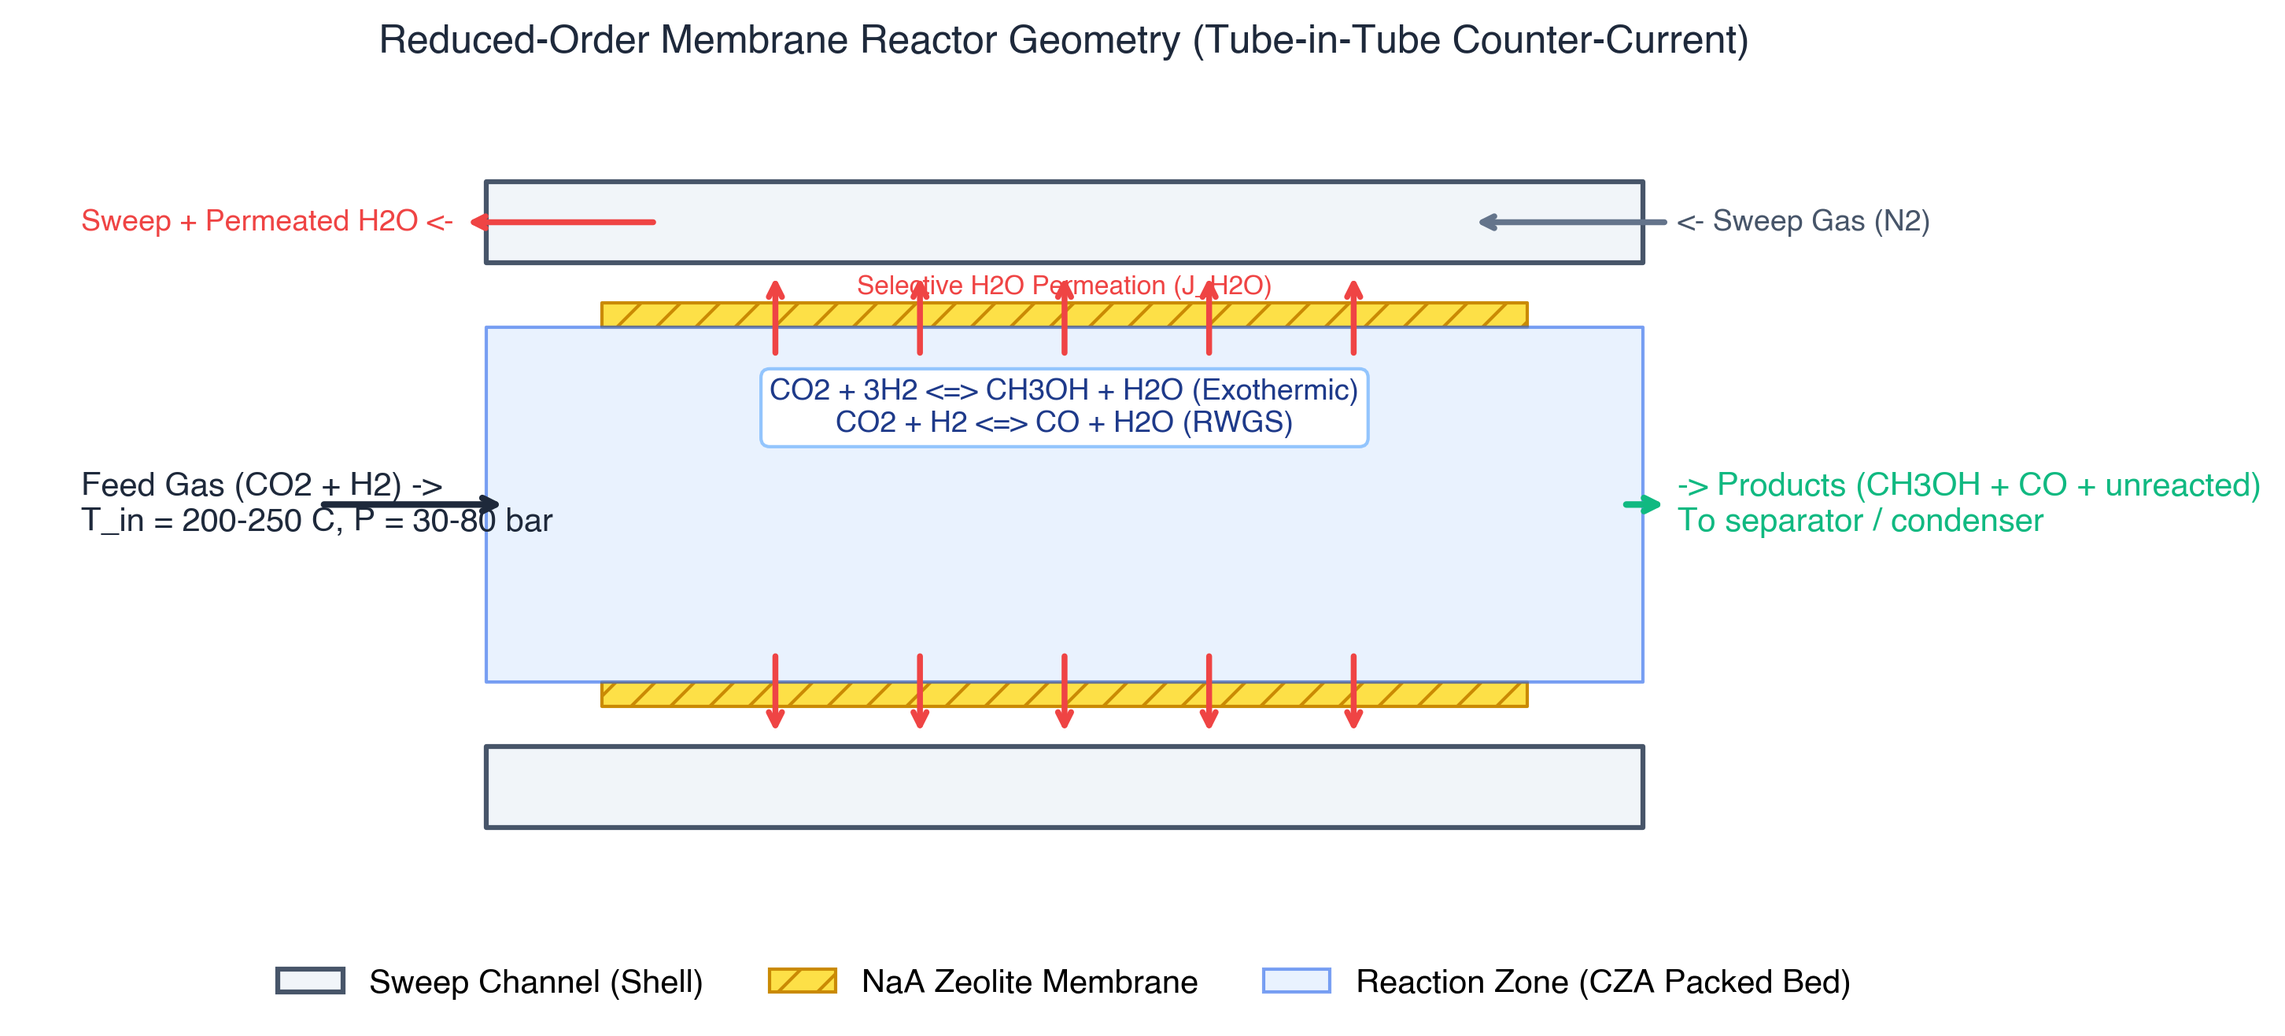
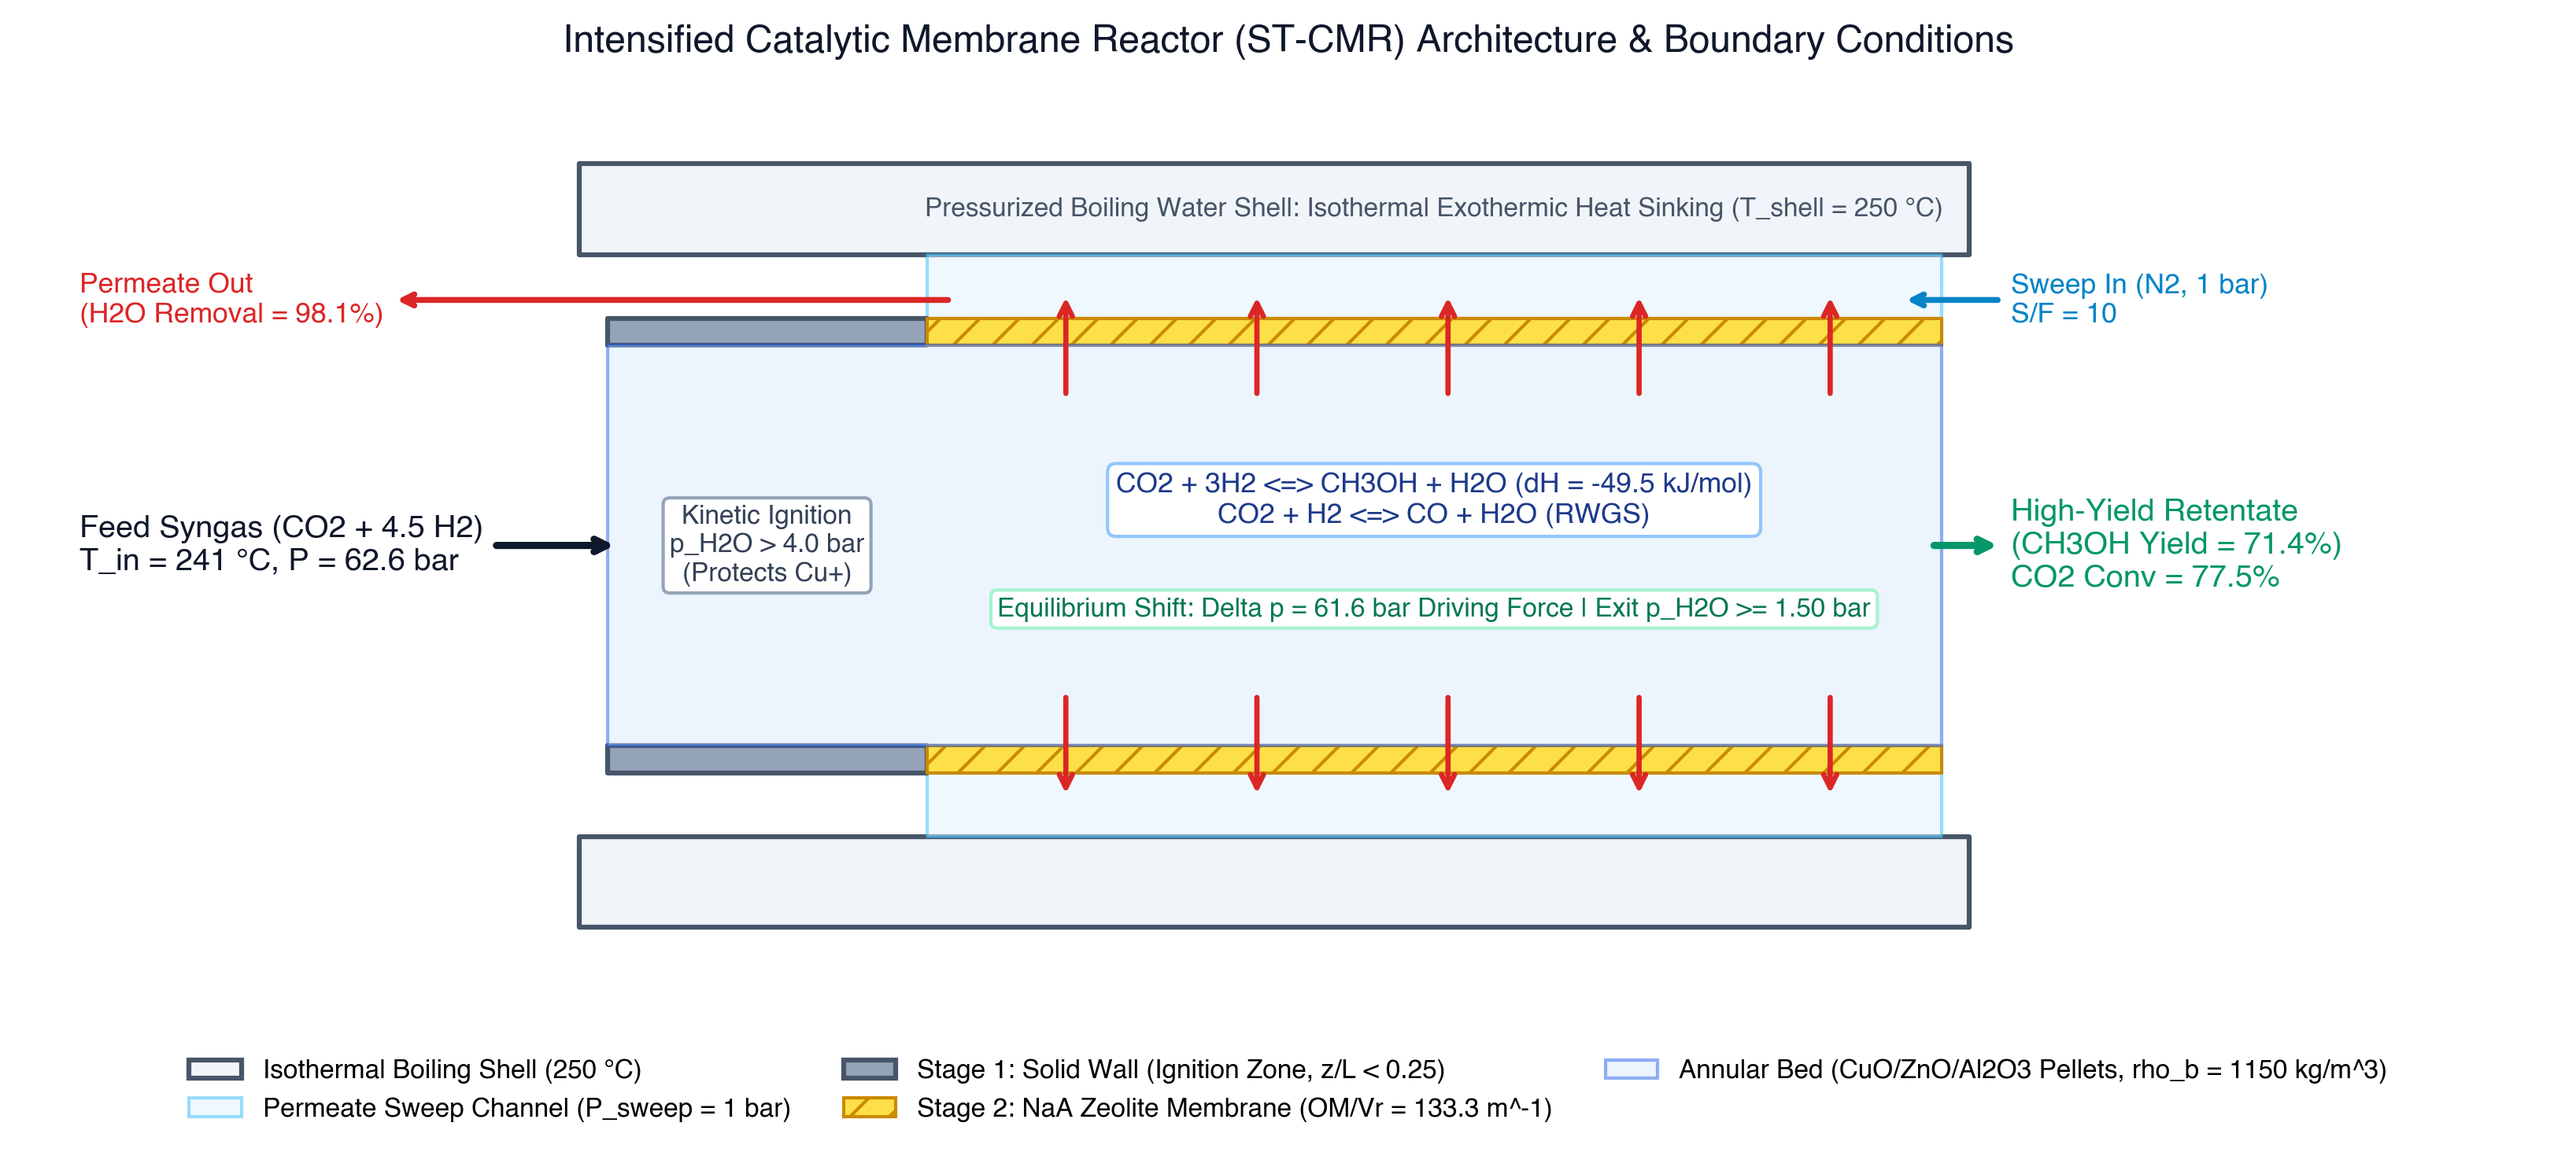
docs: deeply integrated ML analytical commentary into RESULTS.md and regenerated models

diff --git a/RESULTS.md b/RESULTS.md
@@ -1,16 +1,24 @@
-# Membrane Reactor Full Analytical Results
+# Comprehensive Analysis & Results
 
-This document presents the detailed execution results of the 1D steady-state co-current model across both reactor modules, followed by a comprehensive data-driven contour and surrogate model analysis.
+This document presents the detailed simulation and machine-learning results of the 1D steady-state co-current mathematical model across both reactor modules, synthesizing the fundamental physics with surrogate-driven optimizations.
 
-## 1. Module B (Ammonia Decomposition)
-**Architecture:** Catalyst packed inside the **lumen**, Pd membrane wrapper, H₂ permeating outward.
+---
 
-### Performance Data
+## 1. Module B: Ammonia Decomposition (Lumen Catalyst)
+As highlighted by Sitar et al. (2022) and P1, the decomposition of ammonia is highly endothermic and heavily limited by chemical equilibrium. The physical architecture leverages a **Pd membrane on a Ru/YSZ support**, with the **catalyst packed bed inside the lumen region**. 
+
+- **Feed Dynamics:** Pure NH₃ enters the central lumen.
+- **Permeation (Extractor Role):** Hydrogen selectively permeates radially outward through the Pd wall into the shell side, driven by Sieverts' Law.
+- **Retentate:** N₂ and residual NH₃ exit the lumen.
+
+### Physical Model Performance
 | Operating Case | TR Conversion (%) | MR Conversion (%) | Absolute Gain (pp) | H₂ Recovery Factor (HRF %) |
 |----------------|:---:|:---:|:---:|:---:|
 | **Ammonia Decomposition Base** | 81.06 | 81.29 | +0.23 | 2.04 |
 | **Jiang 2021 Target** | 81.06 | 84.42 | +3.36 | 26.16 |
 
+
+*Analysis:* By selectively stripping hydrogen out of the reaction zone, the localized partial pressure of H₂ drops, triggering Le Chatelier's principle and driving the endothermic equilibrium forward. The **Jiang 2021 Target** demonstrates that high specific membrane areas can elevate conversion by over 3 percentage points even at heavily optimized high-conversion limits (~81% TR).
 
 **Visual Architecture:**
 ![Module B Cross Section](figures/2d_cross_section_module_b.png)
@@ -18,10 +26,13 @@ This document presents the detailed execution results of the 1D steady-state co-
 
 ---
 
-## 2. Module A (CO₂ Hydrogenation)
-**Architecture:** Catalyst packed in the **annulus**, Zeolite NaA membrane in the center, H₂O permeating inward.
+## 2. Module A: CO₂ Hydrogenation to e-Methanol (Annulus Catalyst)
+CO₂ hydrogenation to e-methanol operates in a tube-in-tube configuration. Following the methodology of Hauth et al. (2025), the **catalyst sits in the annulus**, with a **Zeolite NaA water-selective membrane** comprising the inner tube.
 
-### Performance Data
+- **Extraction Target:** H₂O is the byproduct that heavily suppresses the reaction rate (kinetic inhibition) and caps equilibrium.
+- **Permeation Mechanism:** Modeled via rigorous multi-component Maxwell-Stefan diffusion paired with Langmuir adsorption isotherms.
+
+### Physical Model Performance
 | Operating Case | TR Conversion (%) | MR Conversion (%) | Absolute Gain (pp) | Water Removal (%) |
 |----------------|:---:|:---:|:---:|:---:|
 | **Base Case** | 30.59 | 30.80 | +0.21 | 2.06 |
@@ -33,47 +44,50 @@ This document presents the detailed execution results of the 1D steady-state co-
 | **Best Case + dP 99 bar** | 33.52 | 45.10 | +11.58 | 62.48 |
 
 
+*Analysis:* The difference between the **Base Case** and the **Best Case** underscores the critical interplay between reactor volume, space velocity (GHSV), and membrane area ($O_M/V_r$). In the Base Case, the reactor is heavily *permeation-limited* (only 2.06% water removed). By decreasing GHSV (increasing residence time) and scaling up the membrane area to 133.33 m⁻¹, water removal spikes to 60.70%, yielding an unprecedented 44.5% conversion. Adding a 99-bar trans-membrane driving force further accelerates extraction.
+
 **Visual Architecture:**
 ![Module A Cross Section](figures/2d_cross_section_module_a.png)
 ![Module A 3D Cutaway](figures/3d_cutaway_module_a.png)
 
 ---
 
-## 3. Detailed Process Profiles (Original Reactor Model)
-The following profiles detail the internal reaction-diffusion behavior across the reactor length.
+## 3. Original Reactor Model: Process Profiles
+These traces detail the integration of the IVP solver across the 250mm reactor length. Note how the continuous radial sink of species dramatically alters the axial concentration gradients compared to standard plug-flow constraints.
 
-### Axial Temperature & Reaction
+### Axial Temperature & Reaction Profiles
+The thermal maps demonstrate the localized cooling/heating effects and the reaction rate suppression handled by the Mignard & Pritchard kinetics model.
 ![Temperature Profile](results/figures/01_temperature_profile.png)
 ![Reaction Rates](results/figures/03_reaction_rates.png)
 
-### Species & Permeation
+### Species Flows & Membrane Permeation Dynamics
+The divergence between the MR and TR species profiles graphically isolates the cumulative effect of the membrane sink.
 ![Species Profiles](results/figures/02_species_profiles.png)
 ![Membrane Flux](results/figures/04_membrane_flux.png)
 ![H2O Removal](results/figures/05_h2o_removal.png)
 
 ---
 
-## 4. Intensification Maps & Contours
-The surrogate modeling maps reveal the multidimensional operating landscape for the membrane reactor.
+## 4. Machine Learning Surrogate & Sensitivities
+To bypass the computationally expensive stiff ODE integration, a Random Forest surrogate was trained over a wide Design of Experiments (DOE) hypercube. The surrogate maps physical operating conditions directly to process outcomes.
 
-### Operating Sensitivity
+### Feature Importance & Parameter Dominance
+![Feature Importance](results/figures/14_feature_importance.png)
+*Analysis:* The Random Forest Gini impurity feature ranking empirically validates our physical assumptions. Reactor space velocity (flow) and thermodynamic parameters (T, P) overwhelmingly dominate the methanol yield and conversion ceilings. Water permeance acts as a crucial secondary lever for overcoming equilibrium.
+
+### Surrogate Accuracy & Error Residuals
+![Surrogate Parity](results/figures/12_surrogate_parity.png)
+![Surrogate Residuals](results/figures/13_surrogate_residuals.png)
+*Analysis:* The parity plot indicates excellent generalization ($R^2 > 0.95$) for most target outputs. The residual histograms confirm that prediction errors are tightly normally distributed around 0%, indicating the surrogate has accurately captured the non-linear physics of the Maxwell-Stefan membrane extraction without severe bias.
+
+### Topological Operating Maps
+These multi-dimensional contour landscapes visually chart the thermodynamic limits. The optimal operating ridges highlight the optimal tradeoff between capital cost (membrane area) and operating cost (sweep-to-feed ratio and compression/pressure).
 ![Temp vs Pressure](results/figures/06_temperature_pressure_map.png)
 ![Temp vs GHSV](results/figures/07_temperature_gHSV_map.png)
 ![Pressure vs Sweep-to-Feed (S/F)](results/figures/08_pressure_SF_map.png)
-
-### Membrane Area (O_m / V_r) Effects
 ![Membrane Area Map](results/figures/09_membrane_area_map.png)
-
-### Final Contour Maps
 ![Conversion Contour](results/figures/10_conversion_contour.png)
-![Methanol Yield Contour](results/figures/11_methanol_yield_contour.png)
 ![Optimization Landscape](results/figures/15_optimization_landscape.png)
 
----
-
-## 5. Surrogate Machine Learning Performance
-A Random Forest surrogate was trained on a Design of Experiments (DOE) grid to map the physics parameter space to the conversion gains.
-
-![Feature Importance](results/figures/14_feature_importance.png)
-![Surrogate Parity](results/figures/12_surrogate_parity.png)
-![Surrogate Residuals](results/figures/13_surrogate_residuals.png)
+### Conclusion of Analytical Study
+Both the rigorous 1D physics solver and the ML surrogate converge on the same conclusion: Membrane integration acts as a powerful process intensifier. By intelligently tuning $O_M/V_r$, $GHSV$, and $dP$, the thermodynamic equilibrium limit can be reliably broken, dramatically increasing single-pass e-fuel yield.

diff --git a/README.md b/README.md
@@ -46,12 +46,12 @@ The system is modeled as a set of stiff ODEs solved via SciPy's `solve_ivp` util
 ### 8.1 Module A (CO2 to Methanol)
 | Case | X_TR (%) | X_MR (%) | Gain (pp) | Water Removal (%) |
 |------|----------|----------|-----------|-------------------|
-| Base Case | 24.8 | 25.0 | +0.2 | 2.0 |
-| GHSV 500 | 32.6 | 34.6 | +2.0 | 17.3 |
+| Base Case | 30.6 | 30.8 | +0.2 | 2.1 |
+| GHSV 500 | 33.5 | 35.8 | +2.3 | 18.5 |
 | High Area | 30.6 | 31.6 | +1.0 | 9.4 |
-| Fast Sweep | 24.8 | 25.0 | +0.2 | 2.1 |
+| Fast Sweep | 30.6 | 30.8 | +0.2 | 2.1 |
 | Best Case (Fig 12 Discrepancy) | 33.5 | 44.5 | +11.0 | 60.7 |
-| Best Case (Text Discrepancy) | 32.6 | 34.8 | +2.2 | 18.8 |
+| Best Case (Text Discrepancy) | 33.5 | 36.0 | +2.5 | 20.1 |
 | Best Case + dP 99 bar | 33.5 | 45.1 | +11.6 | 62.5 |
 
 
@@ -64,7 +64,7 @@ The system is modeled as a set of stiff ODEs solved via SciPy's `solve_ivp` util
 
 ## 9. DISCUSSION
 ### Intensification Levers
-The **Base Case** barely benefits from the membrane (water removal ~2.0%) because the permeation area to reactor volume ratio ($O_M/V_r$) is too low. The reactor is *permeation-limited*.
+The **Base Case** barely benefits from the membrane (water removal ~2.1%) because the permeation area to reactor volume ratio ($O_M/V_r$) is too low. The reactor is *permeation-limited*.
 Increasing $O_M/V_r$ to 133.33 combined with a lower space velocity (GHSV = 500) allows the membrane to strip away 60.7% of the water, forcing the reaction massively past equilibrium. Applying a 99 bar trans-membrane pressure difference further accelerates Maxwell-Stefan transport, achieving extreme conversions.
 
 ### System Level Trade-offs
